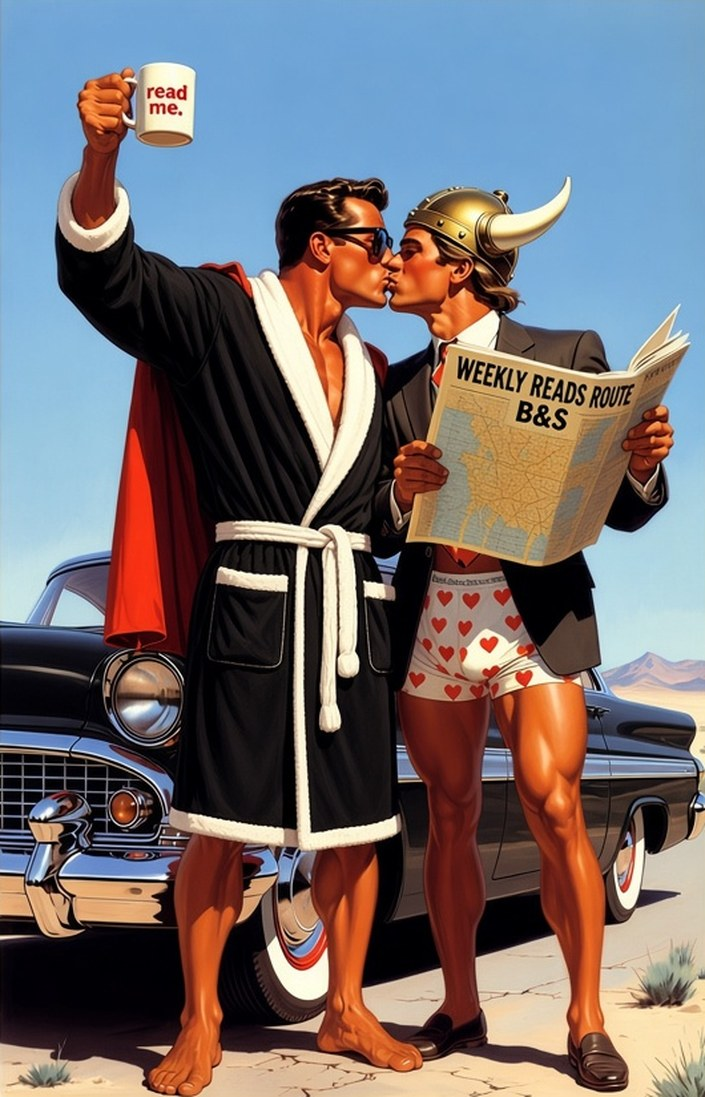
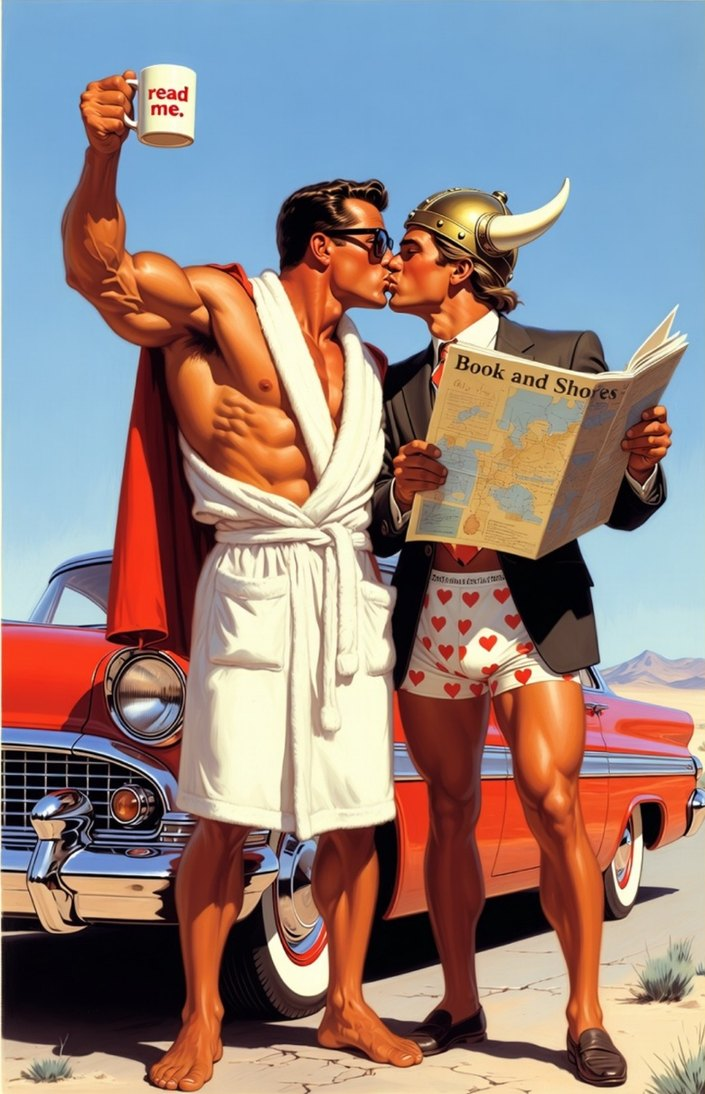
Restore previous Weekly Reads illustration pending AE review

diff --git a/index.html b/index.html
@@ -459,7 +459,7 @@
                     <div>
                         <!-- B&S: original Book & Shores illustration, signed AE -->
                         <figure class="wr-art">
-                            <img class="wr-hero" src="weekly-reads-desert-illustration.jpg" width="705" height="1097" loading="lazy" alt="Book &amp; Shores illustration: by a black vintage car on a desert road, a man in a black robe raises a read me. mug while kissing a man in a Viking helmet, who reads a Weekly Reads Route B&amp;S map">
+                            <img class="wr-hero" src="weekly-reads-desert-illustration.jpg" width="705" height="1094" loading="lazy" alt="Book &amp; Shores illustration: by a red vintage car on a desert road, a man in a white robe raises a read me. mug while kissing a man in a Viking helmet, who reads a Book and Shores map">
                             <img class="wr-sig" src="weekly-reads-signature.png" width="600" height="223" alt="" aria-hidden="true">
                         </figure>
                         <a class="wr-aotm" href="author-of-the-month.html" aria-label="Author of the Month: Jonathan Lethem, A Different Kind of Tension, paperback Sept 1">
